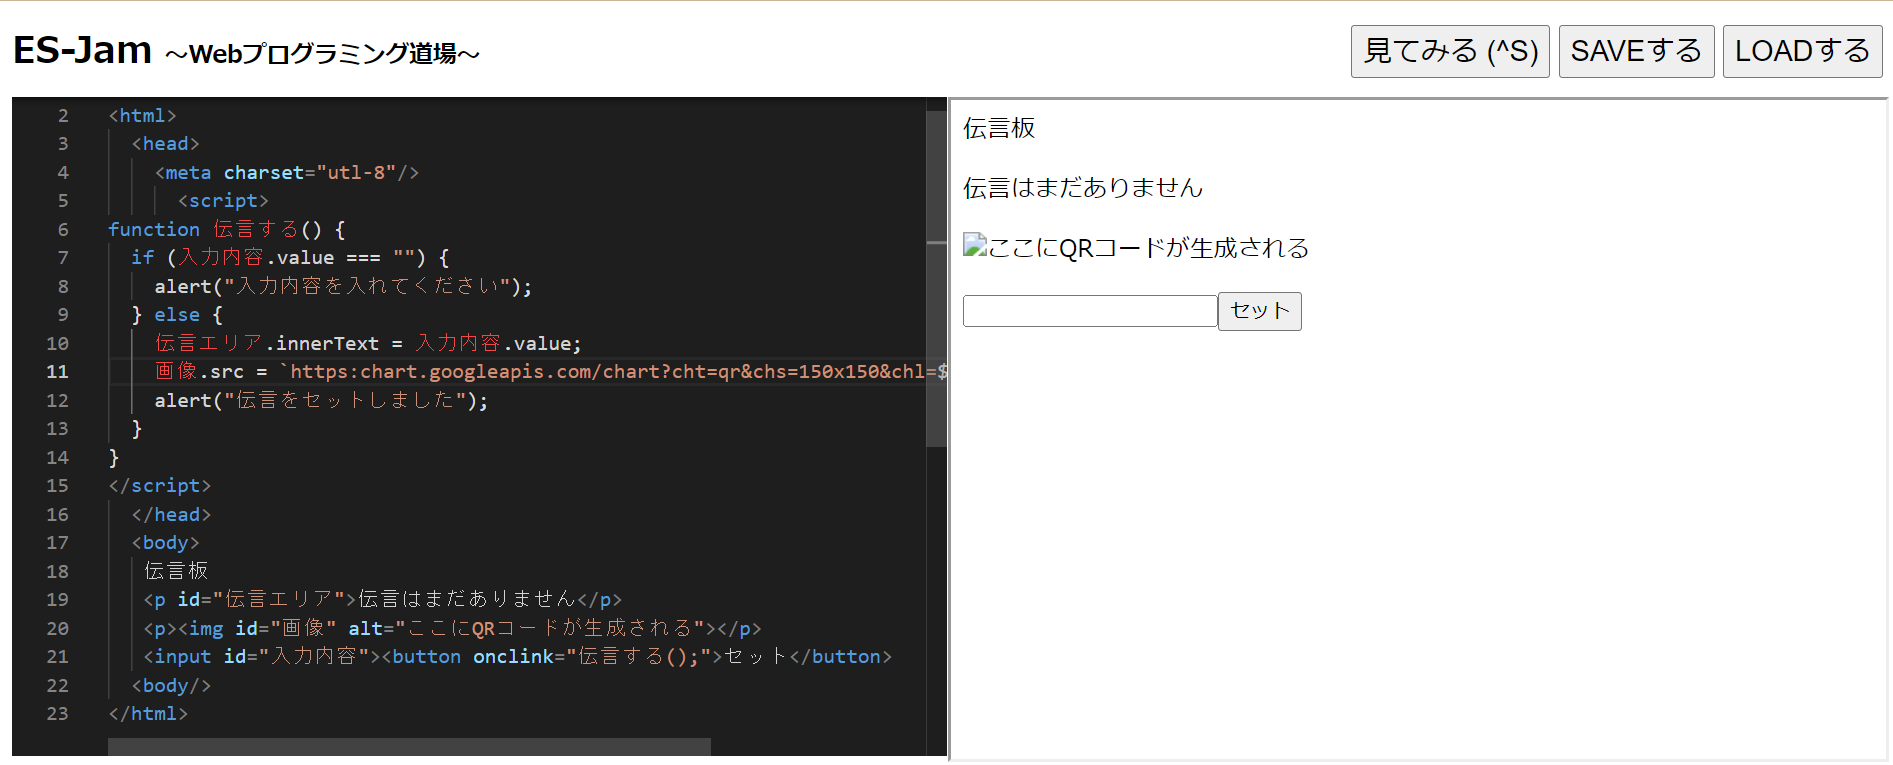
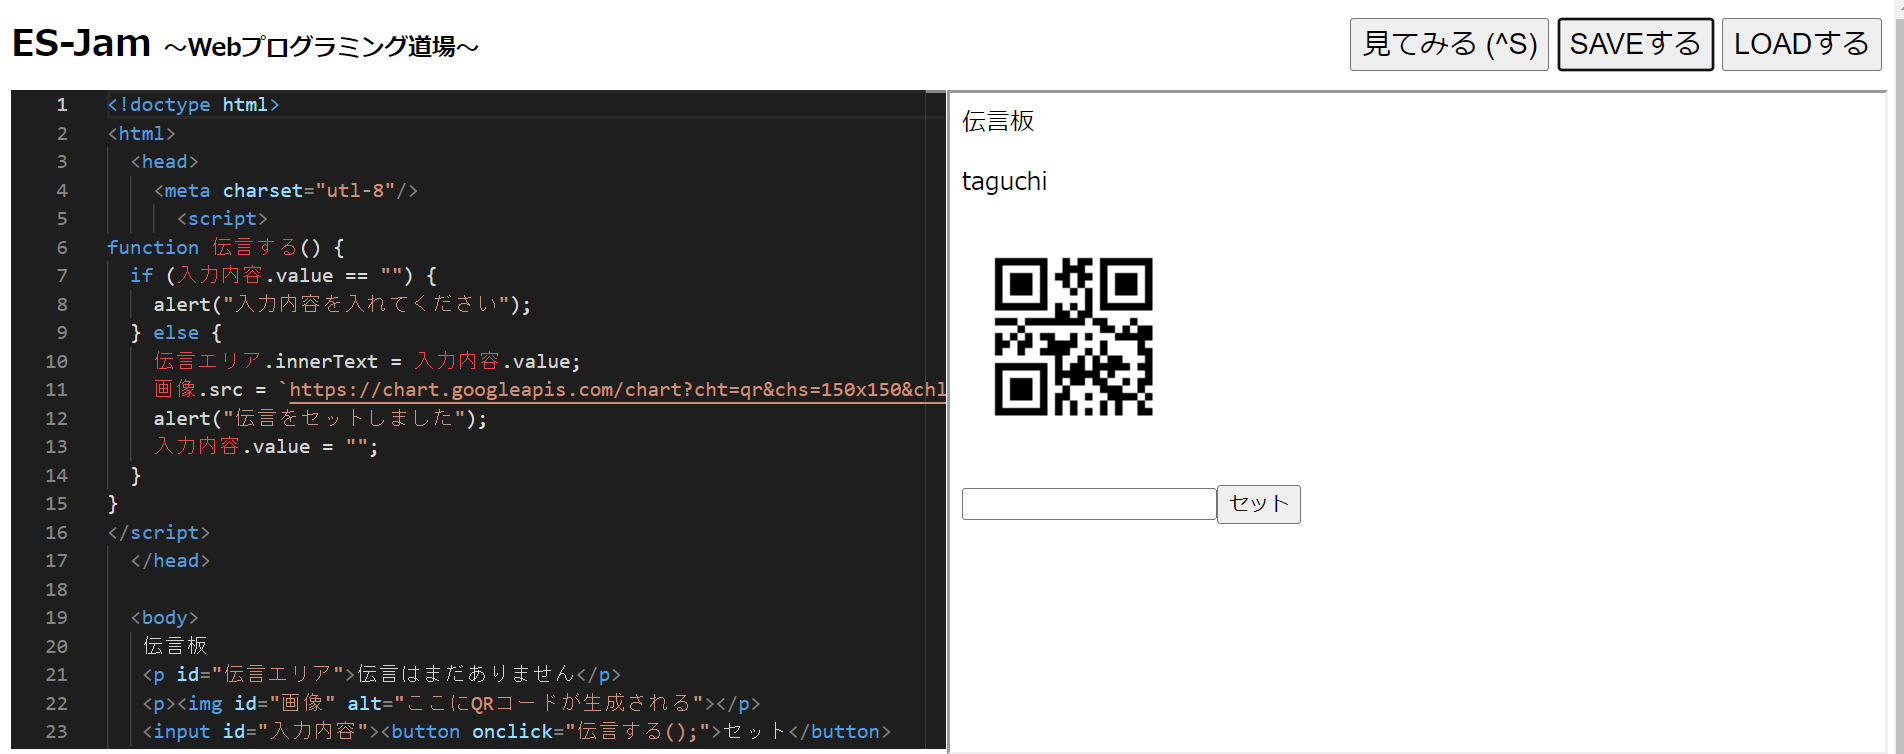
Add files via upload

diff --git a/dengon.html b/dengon.html
@@ -4,20 +4,22 @@
     <meta charset="utl-8"/>
       <script>
 function 伝言する() {
-  if (入力内容.value === "") {
+  if (入力内容.value == "") {
     alert("入力内容を入れてください");
   } else {
     伝言エリア.innerText = 入力内容.value;
-    画像.src = `https:chart.googleapis.com/chart?cht=qr&chs=150x150&chl=${ 入力内容.value }`;
+    画像.src = `https://chart.googleapis.com/chart?cht=qr&chs=150x150&chl=${ 入力内容.value }`;
     alert("伝言をセットしました");
+    入力内容.value = "";
   }
 }
 </script>
   </head>
+
   <body>
    伝言板
    <p id="伝言エリア">伝言はまだありません</p>
    <p><img id="画像" alt="ここにQRコードが生成される"></p>
-   <input id="入力内容"><button onclink="伝言する();">セット</button>
+   <input id="入力内容"><button onclick="伝言する();">セット</button>
   <body/>
 </html>
